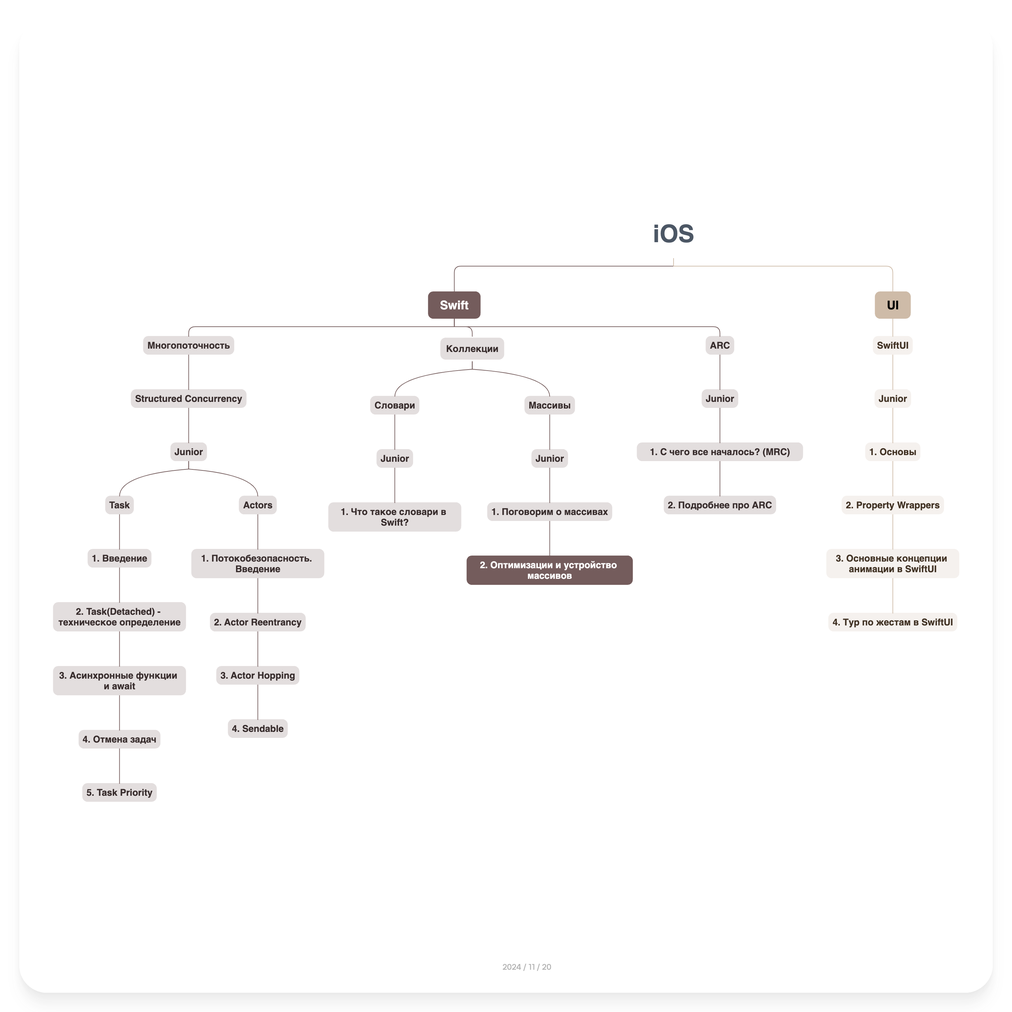
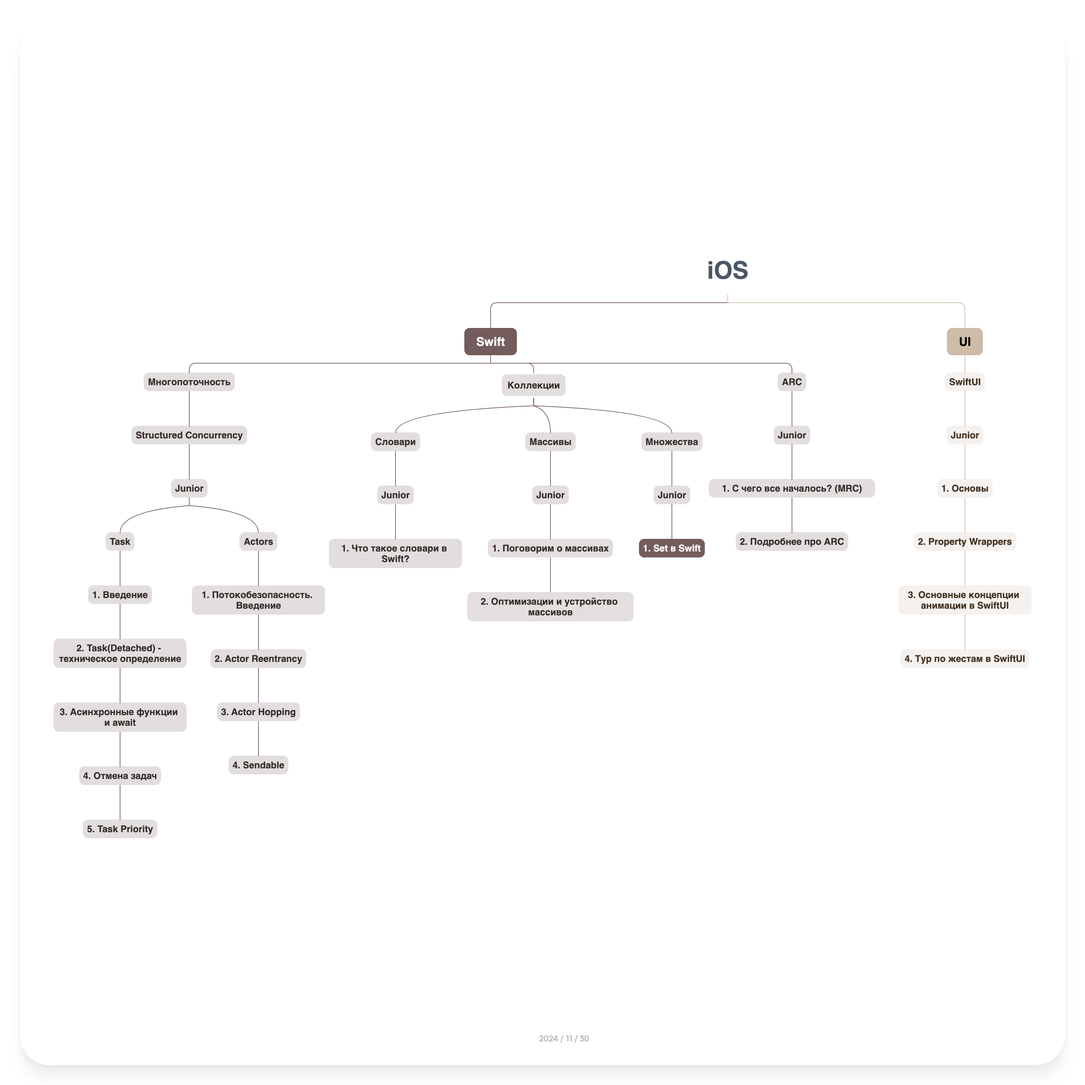
Sync changes from private repo to public

diff --git a/docs/Swift/Коллекции/Множества/Junior/1. Set в Swift.md b/docs/Swift/Коллекции/Множества/Junior/1. Set в Swift.md
@@ -1,0 +1,295 @@
+
+---
+> **Изучение данного блока предполагает предварительное знание синтаксиса языка Swift.**
+*Для успешного освоения этого материала, необходимо иметь базовое понимание синтаксиса языка Swift. Это включает в себя знание основных структур данных, операторов, циклов, функций, абстракций и других ключевых элементов языка. Без этих фундаментальных знаний будет сложно понять более сложные концепции и примеры, которые будут рассматриваться в данном блоке.*
+> 
+---
+
+В Swift **Set** (множество) — это неупорядоченная коллекция уникальных значений одного типа. В отличие от массивов, где элементы могут повторяться и имеют определенный порядок, **Set гарантирует, что каждый элемент присутствует только один раз**, **и не обеспечивает определенного порядка хранения**. 
+
+Сеты используются, когда важно обеспечить уникальность элементов, быстро проверять наличие определенного значения и выполнять операции теории множеств, такие как объединение, пересечение и разность.
+
+## Синтаксис
+### Создание Set
+#### **Создание пустого Set с явным указанием типа**
+```swift
+var emptySet = Set<Int>()
+```
+#### **Создание пустого Set с использованием литерала массива**
+```swift
+var anotherEmptySet: Set<String> = []
+```
+**Важно:** Если вы используете литерал массива для создания Set и не указываете тип явно, **Swift** будет считать эту коллекцию массивом. Поэтому для создания Set необходимо либо явно указать тип **Set**, либо использовать тип **Set** в объявлении переменной.
+### **Основные операции**
+#### **Добавление элементов**
+##### **insert(_:)**
+Добавляет новый элемент в множество. Если элемент уже существует, он не будет добавлен повторно.
+```swift
+var colors: Set = ["Red", "Green"]
+colors.insert("Blue")
+print(colors) // ["Red", "Green", "Blue"]
+```
+#### **Удаление элементов**
+##### **remove(_:)**
+Удаляет указанный элемент из множества. Возвращает удаленный элемент, если он существовал, или **nil** в противном случае.
+```swift
+if let removedColor = colors.remove("Green") {
+    print("\(removedColor) был удален")
+}
+print(colors) // ["Red", "Blue"]
+```
+##### **removeAll()**
+Удаляет все элементы из множества.
+```swift
+colors.removeAll()
+print(colors) // Пустое множество
+```
+#### **Проверка на наличие элемента/элементов**
+##### **contains(_:)**
+```swift
+let cities: Set = ["Moscow", "London", "New York"]
+if cities.contains("London") {
+    print("London есть в множестве городов")
+}
+```
+##### **count**
+Свойство, возвращающее количество элементов в множестве.
+```swift
+print("Количество городов: \(cities.count)") // Количество городов: 3
+```
+##### **isEmpty**
+Свойство, возвращающее **true**, если множество пусто.
+```swift
+let emptySet = Set<Int>()
+if emptySet.isEmpty {
+    print("Множество пусто")
+}
+```
+#### **Итерация по элементам Set**
+Поскольку **Set** соответствует протоколу **Sequence**, вы можете использовать цикл **for-in** для перебора элементов.
+```swift
+for city in cities {
+    print(city)
+}
+```
+Порядок элементов при итерации по множеству не гарантируется.
+#### **Сортировка элементов**
+Чтобы получить отсортированный список элементов из множества, используйте метод **sorted()**, который возвращает массив отсортированных элементов.
+```swift
+let numbers: Set = [3, 1, 2]
+let sortedNumbers = numbers.sorted()
+print(sortedNumbers) // [1, 2, 3]
+```
+### **Операции над множествами**
+#### **Объединение (Union)**
+##### **union(_:)**
+Возвращает новое множество, содержащее все уникальные элементы обоих множеств.
+```swift
+let setA: Set = [1, 2, 3]
+let setB: Set = [3, 4, 5]
+let unionSet = setA.union(setB)
+print(unionSet) // [1, 2, 3, 4, 5]
+```
+##### **formUnion(_:)**
+Модифицирует текущее множество, добавляя в него элементы из другого множества.
+```swift
+var setC: Set = [1, 2]
+setC.formUnion([2, 3, 4])
+print(setC) // [1, 2, 3, 4]
+```
+#### **Пересечение (Intersection)**
+##### **intersection(_:)**
+Возвращает новое множество, содержащее общие элементы обоих множеств.
+```swift
+let intersectionSet = setA.intersection(setB)
+print(intersectionSet) // [3]
+```
+##### **formIntersection(_:)**
+Модифицирует текущее множество, оставляя в нем только общие элементы с другим множеством.
+```swift
+var setD: Set = [1, 2, 3]
+setD.formIntersection([2, 3, 4])
+print(setD) // [2, 3]
+```
+#### **Разность (Subtracting)**
+##### **subtracting(_:)**
+Возвращает новое множество, содержащее элементы текущего множества, которые не содержатся в указанном множестве.
+```swift
+let subtractingSet = setA.subtracting(setB)
+print(subtractingSet) // [1, 2]
+```
+##### **subtract(_:)**
+Модифицирует текущее множество, удаляя из него элементы другого множества.
+```swift
+var setE: Set = [1, 2, 3, 4]
+setE.subtract([3, 4])
+print(setE) // [1, 2]
+```
+#### **Симметрическая разность (Symmetric Difference)**
+##### **symmetricDifference(_:)**
+Возвращает новое множество, содержащее элементы, которые есть в одном из множеств, но не в обоих.
+```swift
+let symmetricSet = setA.symmetricDifference(setB)
+print(symmetricSet) // [1, 2, 4, 5]
+```
+##### **formSymmetricDifference(_:)**
+Модифицирует текущее множество, заменяя его симметрической разностью с другим множеством.
+```swift
+var setF: Set = [1, 2, 3]
+setF.formSymmetricDifference([3, 4, 5])
+print(setF) // [1, 2, 4, 5]
+```
+#### **Сравнение множеств**
+##### **Проверка на подмножество и надмножество**
+###### **isSubset(of:)**
+Проверяет, является ли текущее множество подмножеством другого множества.
+```swift
+let smallSet: Set = [1, 2]
+let largeSet: Set = [1, 2, 3, 4]
+print(smallSet.isSubset(of: largeSet)) // true
+```
+###### **isSuperset(of:)**
+Проверяет, является ли текущее множество надмножеством другого множества.
+```swift
+print(largeSet.isSuperset(of: smallSet)) // true
+```
+###### **isStrictSubset(of:)** и **isStrictSuperset(of:)**
+Проверяют строгие отношения подмножества и надмножества (исключая равенство множеств).
+##### **Проверка на пересечение и равенство**
+###### **isDisjoint(with:)**
+Проверяет, не имеют ли множества общих элементов.
+```swift
+let setG: Set = [1, 2]
+let setH: Set = [3, 4]
+print(setG.isDisjoint(with: setH)) // true
+```
+Либо, можно использовать классическое: `==`
+### **Преобразование между Set и Array**
+**Из Set в Array**
+```swift
+let numberSet: Set = [1, 2, 3]
+let numberArray = Array(numberSet)
+print(numberArray) // Может быть [2, 3, 1] — порядок не гарантируется
+```
+**Из Array в Set**
+```swift
+let numberArray = [1, 2, 2, 3, 3, 3]
+let numberSet = Set(numberArray)
+print(numberSet) // [1, 2, 3]
+```
+## Алгоритмическая сложность основных операций
+### **Добавление элементов**
+#### insert(_:)
+**Амортизированная O(1)**
+
+Операция вставки элемента в Set реализована с использованием хеш-таблицы. В среднем, добавление элемента выполняется за константное время. Однако в редких случаях, когда происходит рехеширование (**перераспределение хеш-таблицы при превышении определенного коэффициента загрузки**), операция может занять больше времени, но это компенсируется в амортизированном анализе.
+### **Удаление элементов**
+#### remove(_:)
+**Амортизированная O(1)**
+
+Удаление всех элементов требует обхода всей структуры данных и освобождения памяти, поэтому сложность линейна по количеству элементов **n**.
+### **Проверка на наличие элемента/элементов**
+#### contains(_:)
+**O(1)**
+
+Проверка наличия элемента в **Set** выполняется за константное время благодаря **хеш-таблице**. По **хеш-значению** сразу определяется, есть ли элемент в множестве.
+#### count
+**O(1)**
+
+Свойство **count** хранится и обновляется при каждой операции добавления или удаления элемента, поэтому доступ к нему выполняется за константное время.
+#### isEmpty
+**O(1)**
+
+Проверка на пустоту — это простая проверка значения свойства **count**, что выполняется за константное время.
+### **Итерация по элементам**
+#### Перебор элементов с помощью цикла for-in
+**O(n)**
+
+Для перебора всех элементов множества необходимо пройти по каждому из n элементов, что требует линейного времени.
+### **Сортировка элементов**
+#### sorted()
+**O(n log n)**
+
+Метод `sorted()` возвращает отсортированный массив элементов множества. Сортировка требует времени **O(n log n**), где **n** — количество элементов в множестве.
+### **Операции над множествами**
+#### union(_:)
+**O(n + m)**
+
+Возвращает новое множество, содержащее все уникальные элементы из двух множеств. Необходимо пройти по каждому элементу обоих множеств (размеры n и m) и добавить их в новое множество, что требует **O(n + m)** времени.
+#### formUnion(_:)
+**O(m)**
+
+Модифицирует текущее множество, добавляя в него элементы из другого множества размером **m**. Каждая вставка выполняется за амортизированное **O(1)**, итого **O(m)**.
+### **Пересечение (Intersection)**
+#### intersection(_:)
+**O(n)**
+
+Возвращает новое множество с общими элементами. Необходимо пройти по каждому элементу текущего множества (размер **n**) и проверить, содержится ли он в другом множестве (проверка за **O(1)**). Итого **O(n)**.
+#### formIntersection(_:)
+**O(n)**
+
+Модифицирует текущее множество, оставляя только общие элементы. Аналогично предыдущему, требуется пройти по всем элементам текущего множества.
+### **Разность (Subtracting)**
+#### subtracting(_:)
+**O(n)**
+
+Возвращает новое множество с элементами, которые есть в текущем множестве, но отсутствуют в другом. Проход по каждому элементу текущего множества с проверкой наличия в другом множестве за **O(1)**. Итого **O(n)**.
+#### subtract(_:)
+**O(m)**
+
+Модифицирует текущее множество, удаляя из него элементы другого множества размера **m**. Для каждого элемента из другого множества выполняется удаление за **O(1)**, итого **O(m)**.
+### **Симметрическая разность (Symmetric Difference)**
+#### symmetricDifference(_:)
+**O(n + m)**
+
+Возвращает новое множество с элементами, которые присутствуют в одном из множеств, но не в обоих. Требуется пройти по элементам обоих множеств и выполнить операции вставки и удаления, итого **O(n + m)**.
+### **Сравнение множеств**
+#### **Проверка на подмножество и надмножество**
+##### isSubset(of:)
+**O(n)**
+
+Проверяет, являются ли все элементы текущего множества (размер **n**) элементами другого множества. Проходит по каждому элементу текущего множества и проверяет наличие в другом множестве за **O(1)**, итого **O(n)**.
+##### isSuperset(of:)
+**O(m)**
+
+Проверяет, содержит ли текущее множество все элементы другого множества размера m. Проходит по каждому элементу другого множества и проверяет наличие в текущем множестве за **O(1)**, итого **O(m)**.
+##### isStrictSubset(of:), isStrictSuperset(of:)
+**O(n) или O(m)**
+
+Аналогично предыдущим методам с дополнительной проверкой на неравенство размеров множеств.
+#### **Проверка на пересечение и равенство**
+##### isDisjoint(with:) или ==
+**O(n)**
+
+Проверяет, не имеют ли множества общих элементов. Проходит по каждому элементу текущего множества и проверяет наличие в другом множестве за **O(1)**, останавливается при нахождении общего элемента. В худшем случае — **O(n)**.
+### Итоговая таблица
+
+| **Операция**                                | **Метод**                     | **Сложность**         | **Объяснение**                                                                                                                                                                   |
+| ------------------------------------------- | ----------------------------- | --------------------- | -------------------------------------------------------------------------------------------------------------------------------------------------------------------------------- |
+| **Добавление элемента**                     | `insert(_:)`                  | Амортизированная O(1) | Добавление элемента в `Set` реализовано через хеш-таблицу. В среднем операция выполняется за O(1), хотя в редких случаях может потребоваться больше времени из-за рехеширования. |
+| **Удаление элемента**                       | `remove(_:)`                  | Амортизированная O(1) | Удаление элемента также использует хеш-таблицу для быстрого доступа. Амортизированная сложность составляет O(1), с учетом возможного рехеширования.                              |
+| **Удаление всех элементов**                 | `removeAll()`                 | O(n)                  | Требуется пройти по всей структуре данных для освобождения памяти и удаления элементов, поэтому сложность линейна от количества элементов n.                                     |
+| **Проверка наличия элемента**               | `contains(_:)`                | O(1)                  | Используя хеш-таблицу, проверка наличия элемента выполняется за константное время, обращаясь напрямую по хешу.                                                                   |
+| **Получение количества элементов**          | `count`                       | O(1)                  | Свойство `count` хранится и обновляется при каждой модификации множества, поэтому доступ к нему занимает константное время.                                                      |
+| **Проверка на пустоту**                     | `isEmpty`                     | O(1)                  | Проверка выполняется через сравнение свойства `count` с нулем, что занимает константное время.                                                                                   |
+| **Итерация по элементам**                   | Цикл `for-in`                 | O(n)                  | Необходимо пройти по каждому из n элементов множества, что требует линейного времени. Порядок элементов не гарантируется.                                                        |
+| **Сортировка элементов**                    | `sorted()`                    | O(n log n)            | Сортировка требует сравнения элементов и организации их в порядке, что занимает O(n log n) времени. Возвращает отсортированный массив.                                           |
+| **Объединение множеств**                    | `union(_:)`                   | O(n + m)              | Создает новое множество, проходя по элементам обоих множеств размером n и m соответственно. Каждая вставка в новое множество занимает O(1).                                      |
+| **Модификация при объединении**             | `formUnion(_:)`               | O(m)                  | Добавляет элементы из другого множества размера m в текущее множество. Каждая операция вставки выполняется за O(1).                                                              |
+| **Пересечение множеств**                    | `intersection(_:)`            | O(n)                  | Проходит по элементам текущего множества размера n и проверяет наличие каждого в другом множестве за O(1).                                                                       |
+| **Модификация при пересечении**             | `formIntersection(_:)`        | O(n)                  | Удаляет из текущего множества элементы, отсутствующие в другом. Проход по n элементам с проверкой за O(1).                                                                       |
+| **Разность множеств**                       | `subtracting(_:)`             | O(n)                  | Проходит по элементам текущего множества и исключает те, что присутствуют в другом множестве. Проверка присутствия за O(1).                                                      |
+| **Модификация при разности**                | `subtract(_:)`                | O(m)                  | Удаляет из текущего множества элементы другого множества размера m. Каждое удаление выполняется за O(1).                                                                         |
+| **Симметрическая разность**                 | `symmetricDifference(_:)`     | O(n + m)              | Создает новое множество, включая элементы, присутствующие только в одном из множеств. Требуется пройти по обоим множествам.                                                      |
+| **Модификация при симметрической разности** | `formSymmetricDifference(_:)` | O(m)                  | Для каждого элемента из другого множества размера m проверяется присутствие и выполняется добавление или удаление за O(1).                                                       |
+| **Проверка на подмножество**                | `isSubset(of:)`               | O(n)                  | Проходит по каждому элементу текущего множества размера n и проверяет его наличие в другом множестве за O(1).                                                                    |
+| **Проверка на надмножество**                | `isSuperset(of:)`             | O(m)                  | Проверяет, содержатся ли все элементы другого множества размера m в текущем. Проход по m элементам с проверкой за O(1).                                                          |
+| **Проверка на пересечение**                 | `isDisjoint(with:)`           | O(n)                  | Проходит по элементам текущего множества и проверяет отсутствие каждого в другом множестве. Останавливается при первом совпадении.                                               |
+
+
+**Примечания:**
+
+- **n** — размер текущего множества.
+- **m** — размер другого множества или коллекции.
+- **Амортизированная сложность** учитывает среднее время выполнения операций, сглаживая редкие случаи увеличения времени выполнения (например, при рехешировании).
+- **Операции с пользовательскими типами**: Элементы должны соответствовать протоколу `Hashable`. Операции хеширования и сравнения должны выполняться за **O(1)** для сохранения общей сложности операций с множеством.
